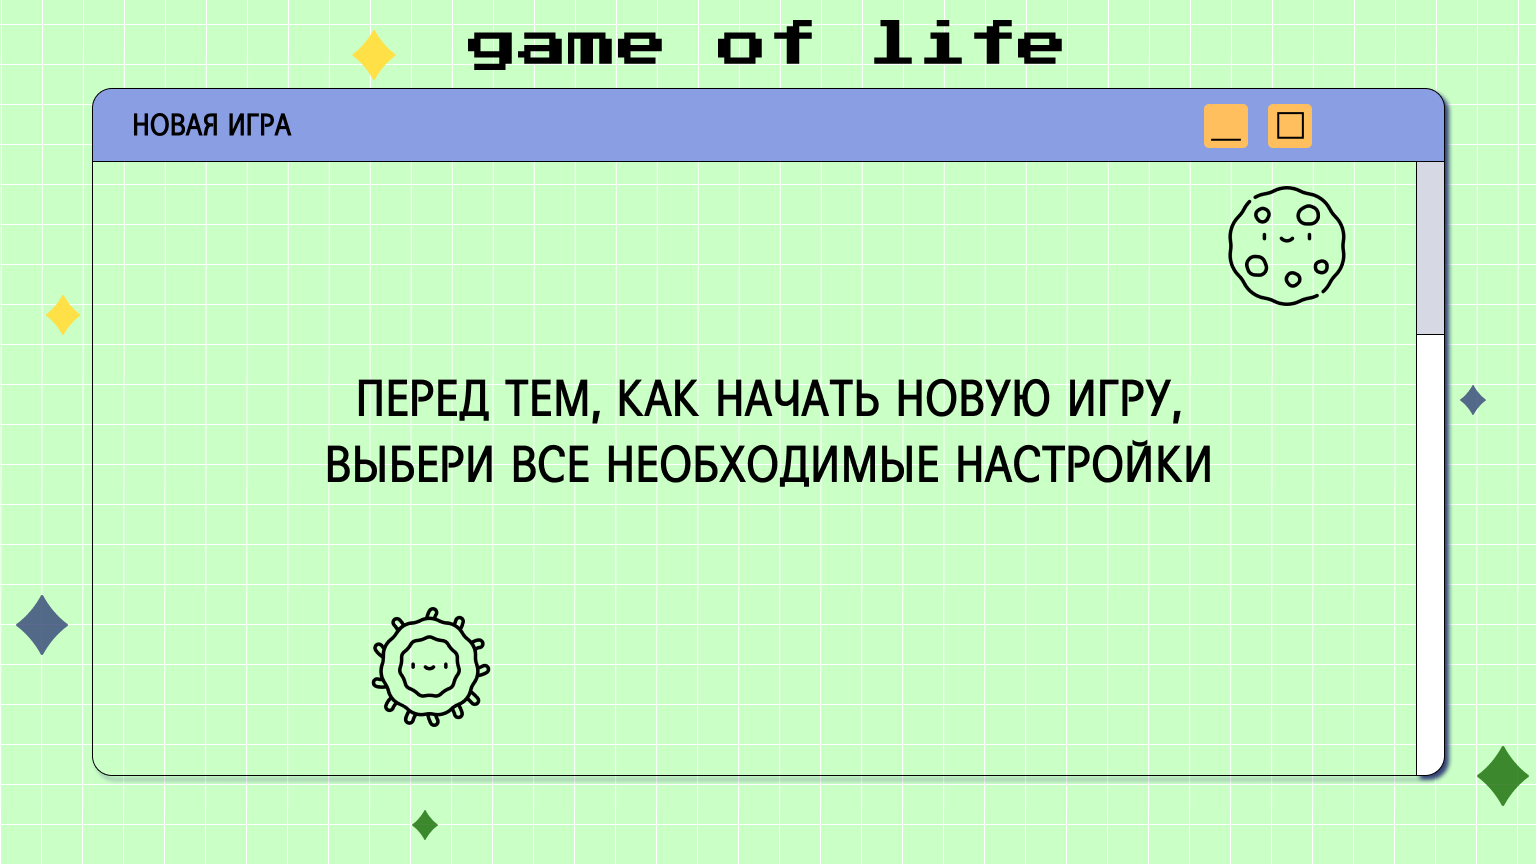
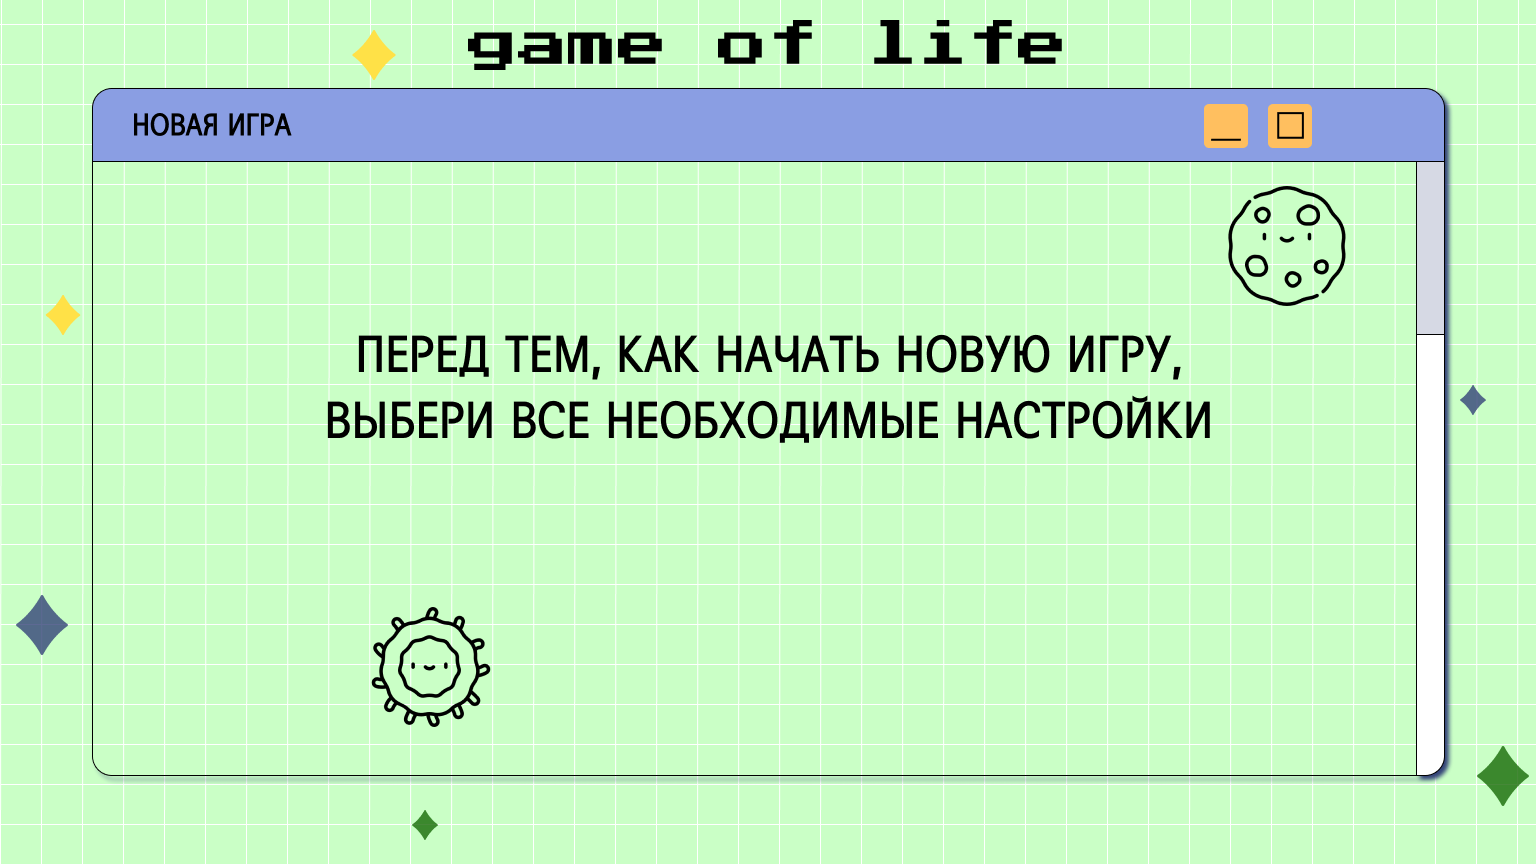
newGameScreen1

Changed region(s): [[0.1875, 0.375, 0.8125, 0.5625]]

diff --git a/core/src/com/gameoflife/game/states/NewGame.java b/core/src/com/gameoflife/game/states/NewGame.java
@@ -3,19 +3,31 @@ package com.gameoflife.game.states;
 import com.badlogic.gdx.graphics.g2d.SpriteBatch;
 import com.gameoflife.game.controlElements.Button;
 import com.gameoflife.game.controlElements.Sprite;
+import com.gameoflife.game.controlElements.TextField;
+
 import java.util.ArrayList;
+import java.util.Arrays;
 
 public class NewGame extends State {
 
-    private ArrayList<Integer> conditionOfLife;
-    private ArrayList<Integer> conditionOfBirth;
-    private boolean[] activeNeighbors;
+    private final ArrayList<Integer> conditionOfLife;
+    private final ArrayList<Integer> conditionOfBirth;
+    private final boolean[] activeNeighbors;
+    private int arenaWidth;
+    private int arenaHeight;
     private int state;
-
+    // common
     private final Button close;
-
-    private final Sprite background_0;
-    private final Button next_0;
+    // №0
+    private Sprite background_0;
+    private Button next_0;
+    private Button defaultSettings;
+    // №1
+    private Sprite background_1;
+    private Button next_1_2;
+    private TextField horizontal;
+    private TextField vertical;
+    private Button[] numbers;
 
     public NewGame(GameStateManager gsm) {
         super(gsm);
@@ -24,35 +36,104 @@ public class NewGame extends State {
         conditionOfLife = new ArrayList<>();
         conditionOfBirth = new ArrayList<>();
         activeNeighbors = new boolean[8];
+        arenaWidth = 50;
+        arenaHeight = 50;
         state = 0;
-
         close = new Button("newGameClose.png", 666, 358, 22, 22);
-        // №0
+        initScreen0();
+        initScreen1();
+        initScreen2();
+        initScreen3();
+    }
+
+    private void initScreen0() {
         background_0 = new Sprite("newGameBG0.png", 0, 0, 768, 432);
-        next_0 = new Button("newGameNext0.png", 296, 101, 176, 34);
+        next_0 = new Button("newGameNext0.png", 296, 139, 176, 34);
+        defaultSettings = new Button("newGameDefSet.png", 296, 82, 176, 34);
+    }
+
+    private void initScreen1() {
+        background_1 = new Sprite("newGameBG1.png", 0, 0, 768, 432);
+        next_1_2 = new Button("newGameNext1-2.png", 296, 55, 176, 34);
+        horizontal = new TextField("valueHorizontal.png", 253, 228);
+        vertical = new TextField("valueVertical.png", 253, 185);
+        numbers = new Button[10];
+        for (int i = 0; i < numbers.length; i++) {
+            numbers[i] = new Button("newGameBtnNum" + i + ".png", 126 + i*53, 111, 40, 40);
+        }
+    }
+
+    private void initScreen2() {
+
+    }
+
+    private void initScreen3() {
+
     }
 
     @Override
     protected void handleInput() {
-        if (state == 0) {
-            if (next_0.isClick(tempDown.x, tempDown.y)) {
-                state++;
-                tempDown.set(-1, -1, 0);
-            }
-        }
-        if (state == 1) {
-
-        }
-        if (state == 2) {
-
-        }
-        if (state == 3) {
-
+        switch (state) {
+            case 0: handleInputScreen0(); break;
+            case 1: handleInputScreen1(); break;
+            case 2: handleInputScreen2(); break;
+            case 3: handleInputScreen3(); break;
         }
         if (close.isClick(tempDown.x, tempDown.y)) {
             gsm.set(new StartMenu(gsm));
             tempDown.set(-1, -1, 0);
         }
+    }
+
+    private void handleInputScreen0() {
+        if (next_0.isClick(tempDown.x, tempDown.y)) {
+            state++;
+            tempDown.set(-1, -1, 0);
+        }
+        if (defaultSettings.isClick(tempDown.x, tempDown.y)) {
+            conditionOfLife.add(2);
+            conditionOfLife.add(3);
+            conditionOfBirth.add(3);
+            Arrays.fill(activeNeighbors, true);
+            tempDown.set(-1, -1, 0);
+            gsm.set(new Game(gsm, conditionOfLife, conditionOfBirth, activeNeighbors, 500, 500));
+        }
+    }
+
+    private void handleInputScreen1() {
+        if (next_1_2.isClick(tempDown.x, tempDown.y) && !horizontal.getValue().isEmpty() && !vertical.getValue().isEmpty()) {
+            arenaWidth = Math.min(Math.max(50, Integer.parseInt(horizontal.getValue())), 500);
+            arenaHeight = Math.min(Math.max(50, Integer.parseInt(vertical.getValue())), 500);
+            state++;
+            tempDown.set(-1, -1, 0);
+        }
+        if (horizontal.isClick(tempDown.x, tempDown.y)) {
+            vertical.setActivity(false);
+            horizontal.setActivity(true);
+            horizontal.setValue("");
+            tempDown.set(-1, -1, 0);
+        }
+        if (vertical.isClick(tempDown.x, tempDown.y)) {
+            horizontal.setActivity(false);
+            vertical.setActivity(true);
+            vertical.setValue("");
+            tempDown.set(-1, -1, 0);
+        }
+        for (int i = 0; i < numbers.length; i++) {
+            if (numbers[i].isClick(tempDown.x, tempDown.y)) {
+                if (horizontal.isActivity()) horizontal.setValue(horizontal.getValue() + i);
+                if (vertical.isActivity()) vertical.setValue(vertical.getValue() + i);
+                tempDown.set(-1, -1, 0);
+            }
+        }
+    }
+
+    private void handleInputScreen2() {
+
+    }
+
+    private void handleInputScreen3() {
+
     }
 
     @Override
@@ -65,27 +146,70 @@ public class NewGame extends State {
         camera.update();
         sb.setProjectionMatrix(camera.combined);
         sb.begin();
-        if (state == 0) {
-            background_0.draw(sb);
-            next_0.draw(sb);
-        }
-        if (state == 1) {
-
-        }
-        if (state == 2) {
-
-        }
-        if (state == 3) {
-
+        switch (state) {
+            case 0: renderScreen0(sb); break;
+            case 1: renderScreen1(sb); break;
+            case 2: renderScreen2(sb); break;
+            case 3: renderScreen3(sb); break;
         }
         close.draw(sb);
         sb.end();
     }
 
+    private void renderScreen0(SpriteBatch sb) {
+        background_0.draw(sb);
+        next_0.draw(sb);
+        defaultSettings.draw(sb);
+    }
+
+    private void renderScreen1(SpriteBatch sb) {
+        background_1.draw(sb);
+        next_1_2.draw(sb);
+        horizontal.draw(sb);
+        vertical.draw(sb);
+        for (Button number : numbers) {
+            number.draw(sb);
+        }
+    }
+
+    private void renderScreen2(SpriteBatch sb) {
+
+    }
+
+    private void renderScreen3(SpriteBatch sb) {
+
+    }
+
     @Override
     public void dispose() {
         close.dispose();
+        disposeScreen0();
+        disposeScreen1();
+        disposeScreen2();
+        disposeScreen3();
+    }
+
+    private void disposeScreen0() {
         background_0.dispose();
         next_0.dispose();
+        defaultSettings.dispose();
+    }
+
+    private void disposeScreen1() {
+        background_1.dispose();
+        next_1_2.dispose();
+        horizontal.dispose();
+        vertical.dispose();
+        for (Button number : numbers) {
+            number.dispose();
+        }
+    }
+
+    private void disposeScreen2() {
+
+    }
+
+    private void disposeScreen3() {
+
     }
 }

diff --git a/core/src/com/gameoflife/game/controlElements/TextField.java b/core/src/com/gameoflife/game/controlElements/TextField.java
@@ -1,0 +1,71 @@
+package com.gameoflife.game.controlElements;
+
+import com.badlogic.gdx.graphics.Texture;
+import com.badlogic.gdx.graphics.g2d.SpriteBatch;
+import com.badlogic.gdx.math.Rectangle;
+
+public class TextField {
+
+    private final Rectangle rectangle;
+    private final Texture line;
+    private final Texture defaultValue;
+    private final Texture[] numbers;
+    private String value;
+    private boolean isActive;
+
+    public TextField(String defaultValue, float x, float y) {
+        rectangle = new Rectangle(x, y, 263, 18);
+        line = new Texture("line.png");
+        line.setFilter(Texture.TextureFilter.Linear, Texture.TextureFilter.Linear);
+        this.defaultValue = new Texture(defaultValue);
+        this.defaultValue.setFilter(Texture.TextureFilter.Linear, Texture.TextureFilter.Linear);
+        numbers = new Texture[10];
+        for (int i = 0; i < numbers.length; i++) {
+            numbers[i] = new Texture("number" + i + ".png");
+            numbers[i].setFilter(Texture.TextureFilter.Linear, Texture.TextureFilter.Linear);
+        }
+        value = "";
+        isActive = false;
+    }
+
+    public boolean isClick(float touchePosX, float touchePosY) {
+        return rectangle.contains(touchePosX, touchePosY);
+    }
+
+    public void setActivity(boolean active) {
+        isActive = active;
+    }
+
+    public boolean isActivity() {
+        return isActive;
+    }
+
+    public void setValue(String value) {
+        this.value = value;
+    }
+
+    public String getValue() {
+        return value;
+    }
+
+    public void draw(SpriteBatch sb) {
+        if (isActive) sb.draw(line, rectangle.x, rectangle.y, rectangle.width, 2);
+        else sb.draw(line, rectangle.x, rectangle.y, rectangle.width, 1);
+        if (!isActive && value.length() == 0) sb.draw(defaultValue, rectangle.x + 2, rectangle.y + 3, (int)(defaultValue.getWidth()/2), 8);
+        else {
+            int size = 0;
+            for (int i = 0; i < value.length(); i++) {
+                sb.draw(numbers[value.charAt(i) - '0'], rectangle.x + 2 + size, rectangle.y + 4, (int)(numbers[value.charAt(i) - '0'].getWidth()/4), 13);
+                size += (int)(numbers[value.charAt(i) - '0'].getWidth()/4) + 2;
+            }
+        }
+    }
+
+    public void dispose() {
+        line.dispose();
+        defaultValue.dispose();
+        for (Texture number : numbers) {
+            number.dispose();
+        }
+    }
+}

diff --git a/core/src/com/gameoflife/game/states/Game.java b/core/src/com/gameoflife/game/states/Game.java
@@ -16,7 +16,7 @@ public class Game extends State {
     private boolean stateOfTheGame, isMultiTouch, isPainting, isErasure;
     private final Button runAndStop, plus, minus, pen, eraser;
 
-    public Game(GameStateManager gsm, ArrayList<Integer> conditionOfLife, ArrayList<Integer> conditionOfBirth, boolean[] activeNeighbors) {
+    public Game(GameStateManager gsm, ArrayList<Integer> conditionOfLife, ArrayList<Integer> conditionOfBirth, boolean[] activeNeighbors, int arenaWidth, int arenaHeight) {
         super(gsm);
         float windowWidth = Gdx.graphics.getWidth();
         float windowHeight = Gdx.graphics.getHeight();
@@ -24,10 +24,10 @@ public class Game extends State {
         dy = windowHeight / 432;
         float dZoom = (dx + dy) / 2;
         camera.setToOrtho(false, windowWidth, windowHeight);
-        camera.position.set((int) (10 * dZoom) * 250, (int) (10 * dZoom) * 250, 0);
+        camera.position.set((int)((10 * dZoom) * arenaWidth/2), (int)((10 * dZoom) * arenaHeight/2), 0);
         camZoom = 1;
         camera.zoom = camZoom;
-        arena = new Arena(500, 500, dZoom, conditionOfLife, conditionOfBirth, activeNeighbors);
+        arena = new Arena(arenaWidth, arenaHeight, dZoom, conditionOfLife, conditionOfBirth, activeNeighbors);
         runAndStop = new Button("start.png", "stop.png", -380 * dx, -212 * dy, 50 * dZoom, 50 * dZoom);
         plus = new Button("plus.png", 380 * dx - 50 * dZoom, 5 * dy, 50 * dZoom, 50 * dZoom);
         minus = new Button("minus.png", 380 * dx - 50 * dZoom, -5 * dy - 50 * dZoom, 50 * dZoom, 50 * dZoom);
